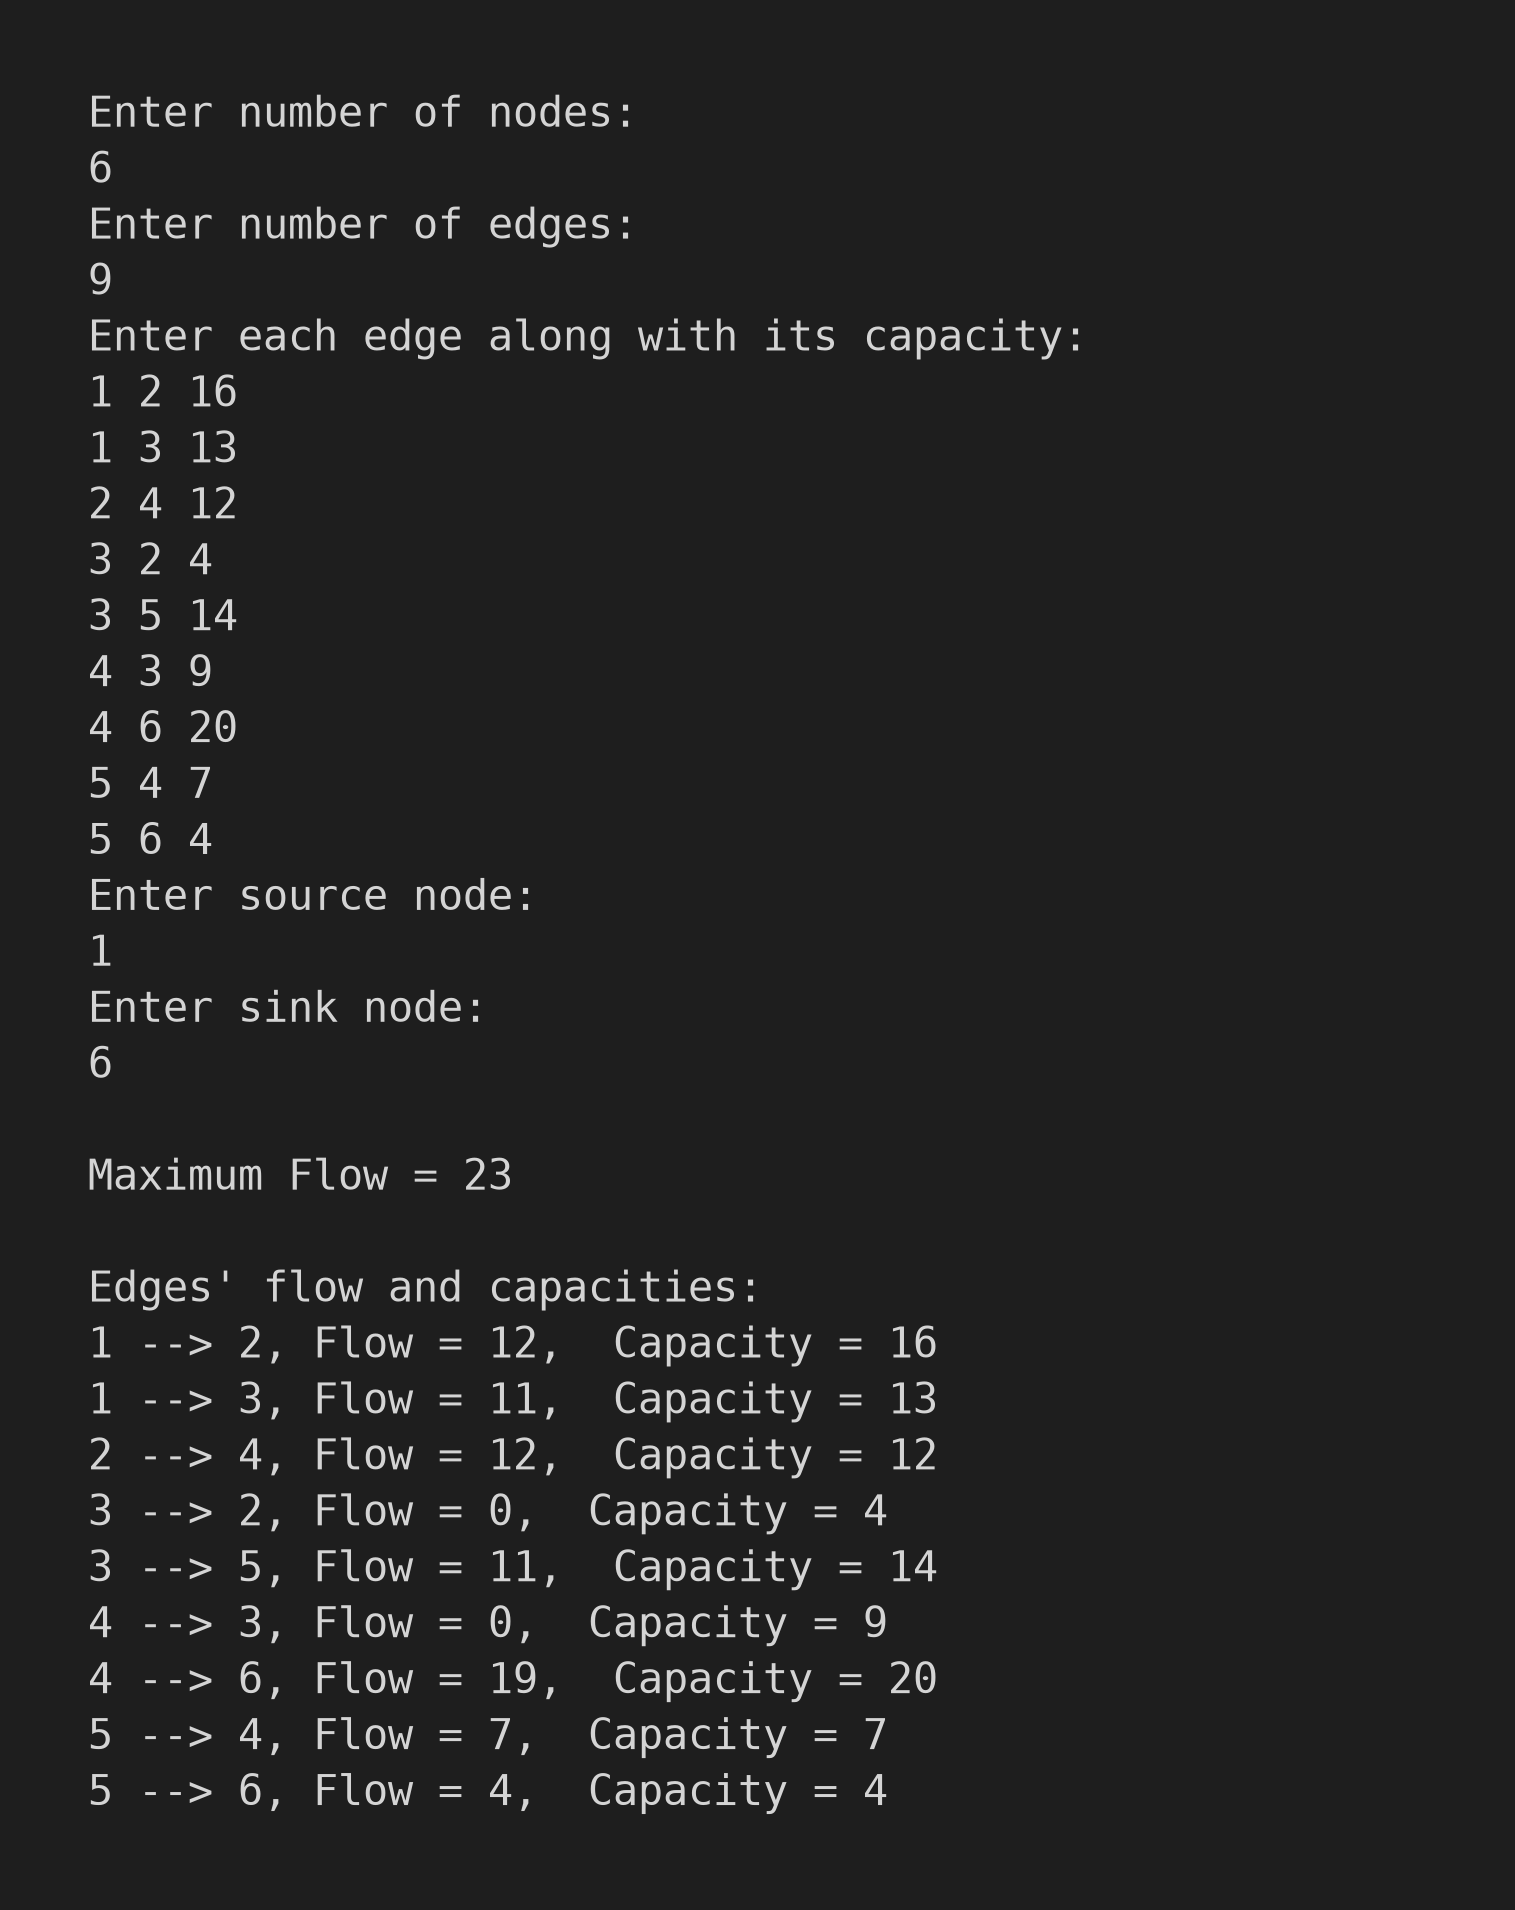
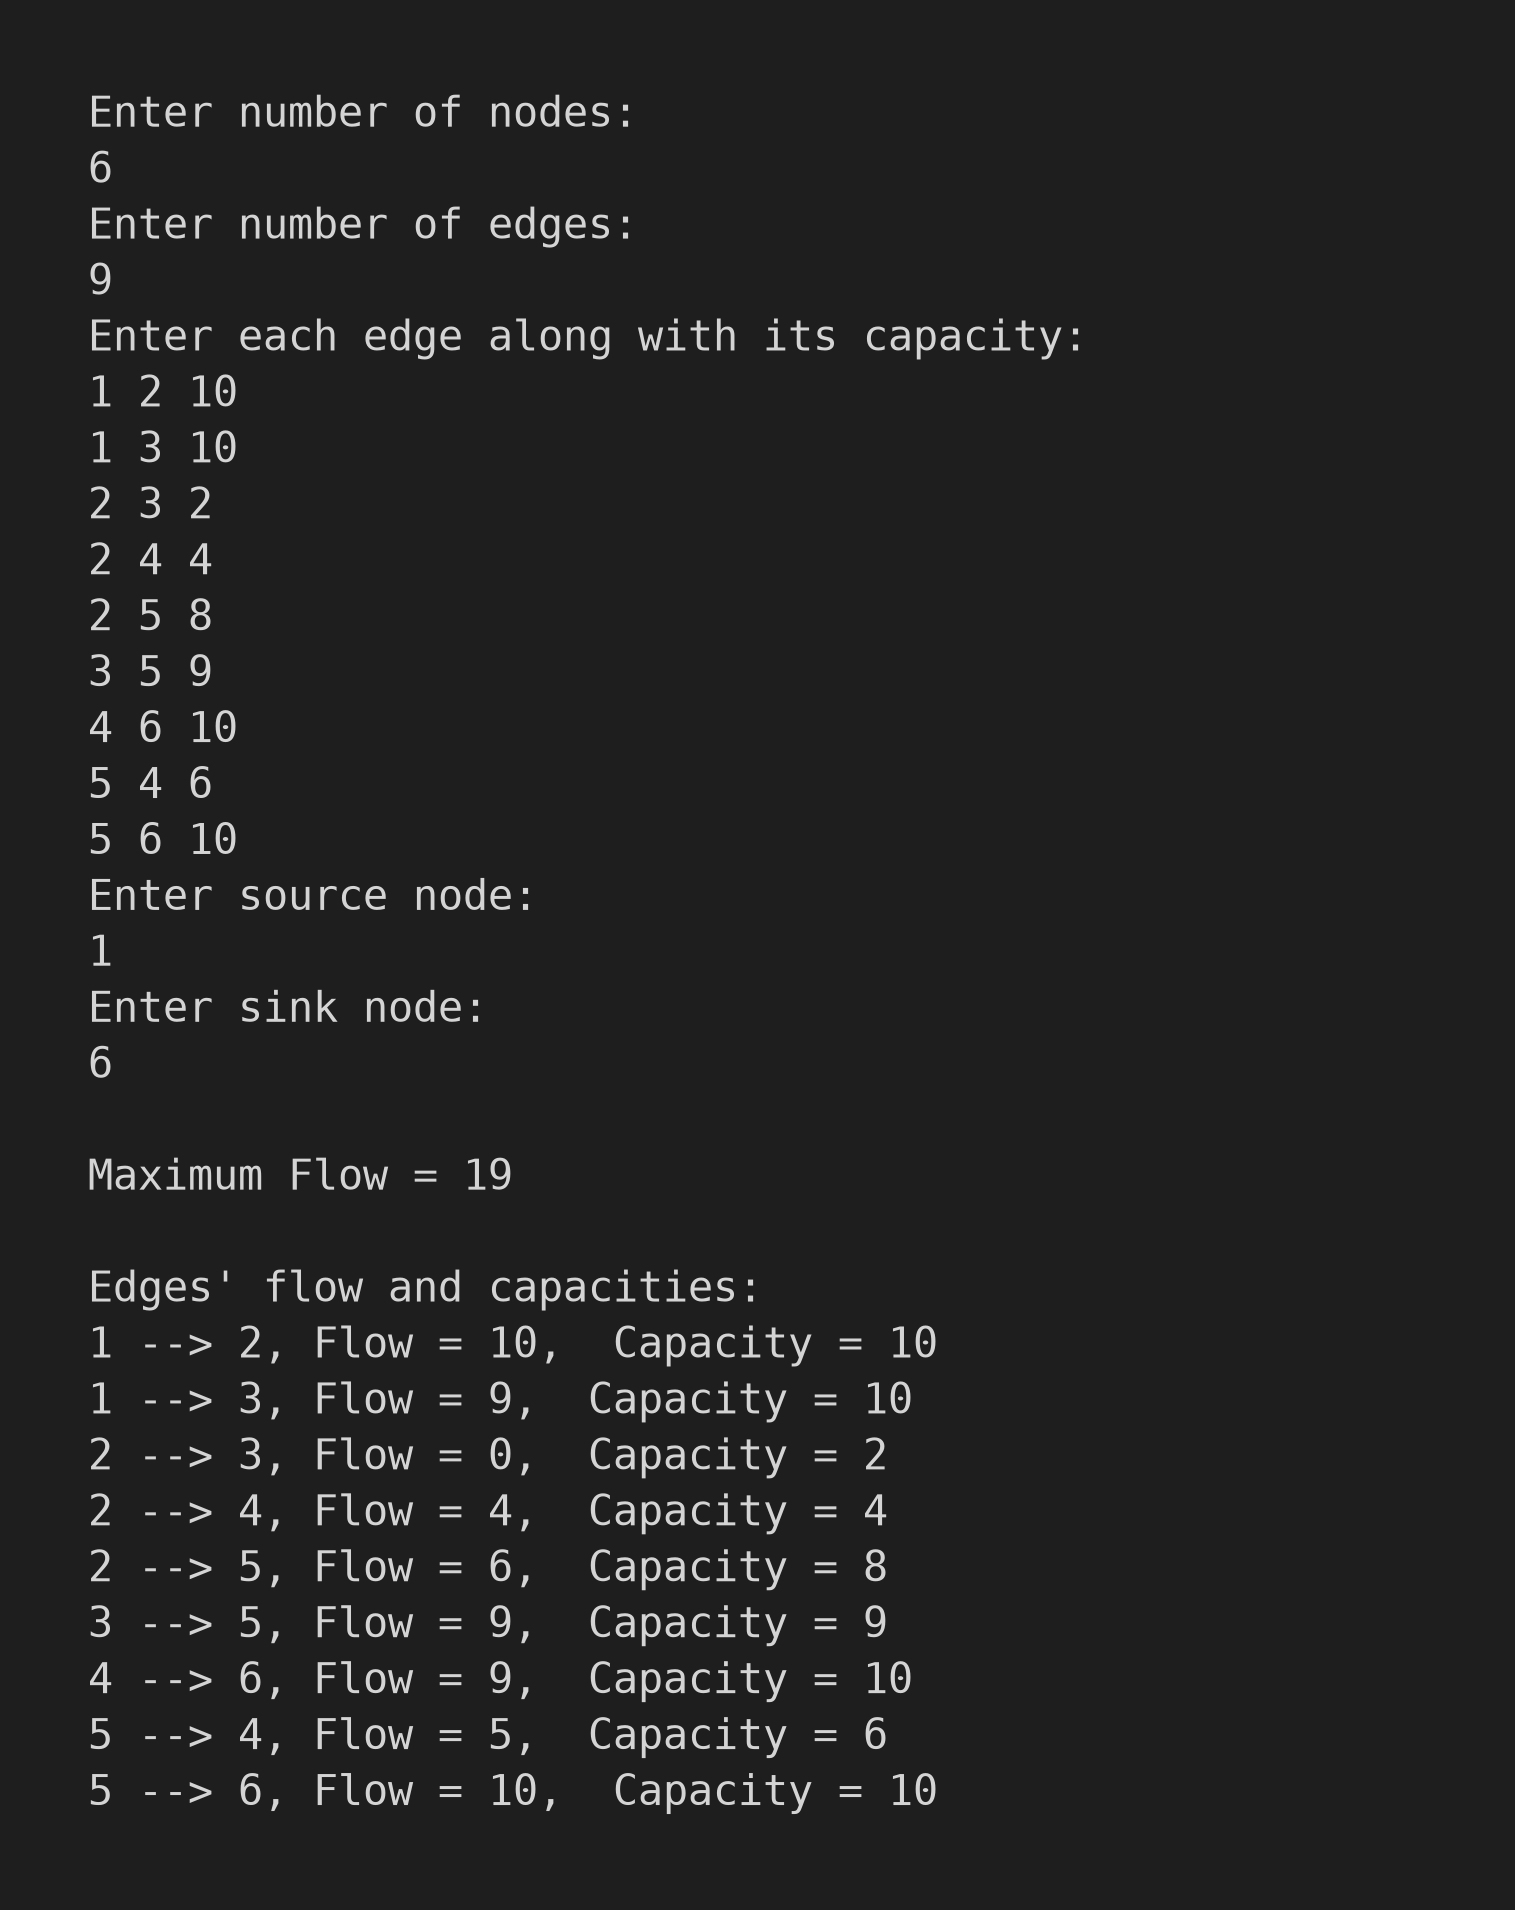
merge

diff --git a/Network flow/dinic.cpp b/Network flow/dinic.cpp
@@ -1,0 +1,115 @@
+#include <bits/stdc++.h>
+using namespace std;
+
+class Graph{
+private:
+    int nodes;
+    vector<vector<int>> capacity;
+    vector<vector<int>> remainingCapacity;
+    vector<vector<int>> adj;
+    bool bfs(int s, int sink, vector<int> &level){
+        queue<int> q;
+        q.push(s);
+        level[s] = 0;
+        while(!q.empty()){
+            int u = q.front();
+            q.pop();
+            for(int v:adj[u]){
+                if(remainingCapacity[u][v]>0 && level[v] == -1){
+                    q.push(v);
+                    level[v] = level[u] + 1;
+                }
+                
+            }
+        }
+        return level[sink] != -1;
+    }
+
+    int dfs(int s, int sink, int curFlow, const vector<int> &level, vector<int> &ptr){
+        if(s == sink){
+            return curFlow;
+        }
+        for(; ptr[s]<adj[s].size();ptr[s]++){
+            int u = adj[s][ptr[s]];
+            if(remainingCapacity[s][u]>0 && level[u] == level[s] + 1){
+                int bottleNeck = dfs(u, sink, min(curFlow, remainingCapacity[s][u]), level, ptr);
+                if(bottleNeck > 0){
+                    remainingCapacity[s][u] -= bottleNeck;
+                    remainingCapacity[u][s] += bottleNeck;
+                    return bottleNeck;
+                }
+            }
+        }
+        return 0; 
+    }
+
+public:
+    vector<vector<int>> flow;
+    Graph(int n){
+        nodes = n;
+        capacity.assign(nodes + 1, vector<int>(nodes + 1, 0));
+        remainingCapacity.assign(nodes + 1, vector<int>(nodes + 1, 0));
+        flow.assign(nodes + 1, vector<int>(nodes + 1, 0));
+        adj.assign(nodes + 1, vector<int>());
+    }
+    void edge(int u, int v, int cap){
+        if(capacity[u][v] == 0){
+            adj[u].push_back(v);
+            adj[v].push_back(u);
+        }
+        capacity[u][v] += cap;
+        remainingCapacity[u][v] += cap;
+    }
+    int dinic(int source, int sink){
+        int maxFlow = 0;
+        vector<int> level(nodes + 1, -1);
+        while(bfs(source, sink, level)){
+            vector<int> ptr(nodes + 1, 0);
+            int bottleNeck = dfs(source, sink, INT_MAX, level, ptr);
+            while(bottleNeck != 0){
+                maxFlow += bottleNeck;
+                bottleNeck = dfs(source, sink, INT_MAX, level, ptr);
+                
+            }
+            fill(level.begin(), level.end(), -1);
+        }
+        
+        return maxFlow;
+    }
+    void calculateFlow(const vector<vector<int>> &e){
+        for(const auto &i : e){
+            flow[i[0]][i[1]] = capacity[i[0]][i[1]]-remainingCapacity[i[0]][i[1]];
+        }
+    }
+};
+
+int main(){
+    int nodes, edges;
+    cout<<"Enter number of nodes:\n";
+    cin>>nodes;
+    Graph g(nodes);
+    cout<<"Enter number of edges:\n";
+    cin>>edges;
+    cout<<"Enter each edge along with its capacity:\n";
+    vector<vector<int>> edge;
+    for(int i = 0; i < edges; i++){
+        int u, v, cap;
+        cin>>u>>v>>cap;
+        g.edge(u, v, cap);
+        vector<int> e  = {u, v, cap};
+        edge.emplace_back(e);
+    }
+    int source, sink;
+    cout<<"Enter source node:\n";
+    cin>>source;
+    cout<<"Enter sink node:\n";
+    cin>>sink;
+    int maxFlow = g.dinic(source, sink);
+    g.calculateFlow(edge);
+    cout<<"\nMaximum Flow = "<<maxFlow<<"\n";
+    cout<<"\nEdges' flow and capacities:\n";
+    for(auto i : edge){
+        cout<<i[0]<<" --> "<<i[1]<<", Flow = "<<g.flow[i[0]][i[1]]<<",  Capacity = "<<i[2]<<"\n";
+    }
+    return 0;
+}

diff --git a/README.md b/README.md
@@ -17,9 +17,13 @@ C:\Urban-Engine-Flow
 │   ├── dfs.cpp                       # Depth-First Search implementation
 │   └── Sample graph for traversal.png # Graph topology diagram used for tests
 ├── Network flow/
-│   ├── Edmonds Karp sample output.png 
-│   ├── Ford Fulkerson sample output.png 
-│   ├── Sample graph for Network flow.png # Flow network topology diagram
+│   ├── Dinic sample output.png
+│   ├── Edmonds Karp sample output.png
+│   ├── Ford Fulkerson sample output.png
+│   ├── Sample graph for Dinic.png    # Flow network topology diagram
+│   ├── Sample graph for Edmonds Karp.png # Flow network topology diagram
+│   ├── Sample graph for Ford Fulkerson.png # Flow network topology diagram
+│   ├── dinic.cpp                     # Dinic's maximum flow implementation
 │   ├── edmonds_karp.cpp              # Edmonds-Karp maximum flow implementation
 │   └── ford_fulkerson.cpp            # Ford-Fulkerson maximum flow implementation
 └── Shortest path algorithms/
@@ -89,4 +93,10 @@ C:\Urban-Engine-Flow
 - **Description**: Computes the maximum flow in a flow network from a single source to a single sink. It is a variation of the Ford-Fulkerson method that uses Breadth-First Search (BFS) to find augmenting paths (shortest path in terms of the number of edges).
 - **Time Complexity**: $\mathcal{O}(V \times E^2)$ where $V$ is the number of vertices and $E$ is the number of edges.
 - **Space Complexity**: $\mathcal{O}(V^2)$ to store capacity and flow matrices.
+
+#### 🔹 Dinic's Algorithm
+- **File**: `Network flow/dinic.cpp`
+- **Description**: Computes the maximum flow in a flow network using level graphs and blocking flows. It uses Breadth-First Search (BFS) to construct a level graph and Depth-First Search (DFS) with a pointer optimization (pruning) to find blocking flows.
+- **Time Complexity**: $\mathcal{O}(V^2 \times E)$ where $V$ is the number of vertices and $E$ is the number of edges.
+- **Space Complexity**: $\mathcal{O}(V^2)$ to store capacity, flow, and level structures.
 